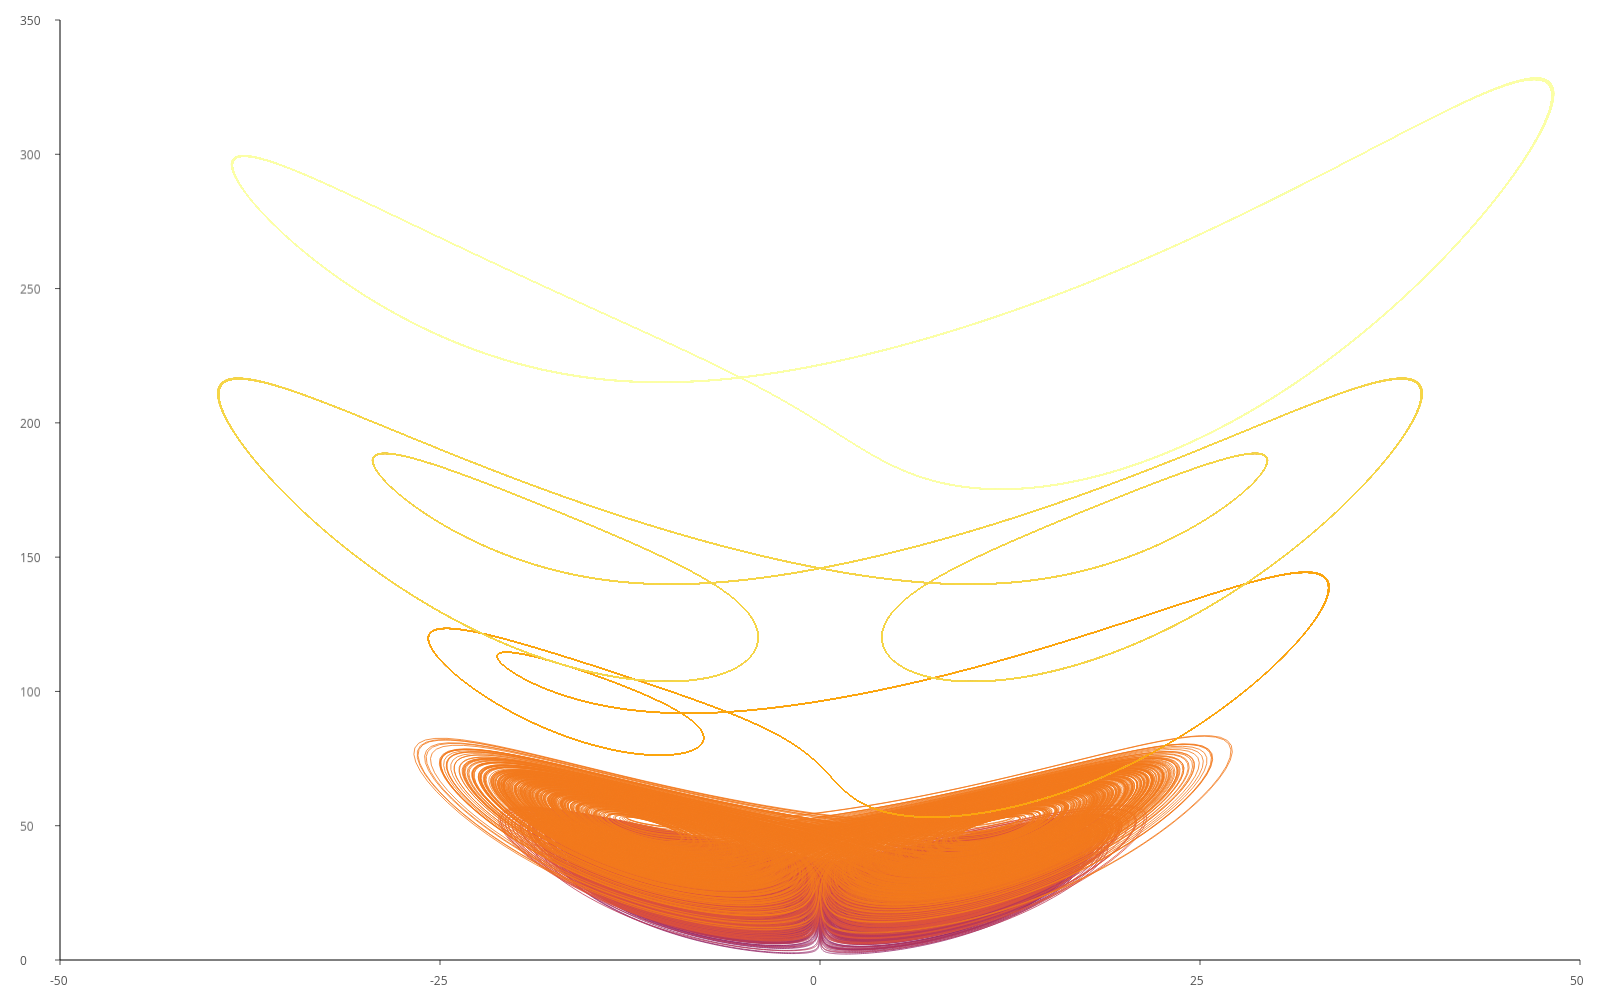
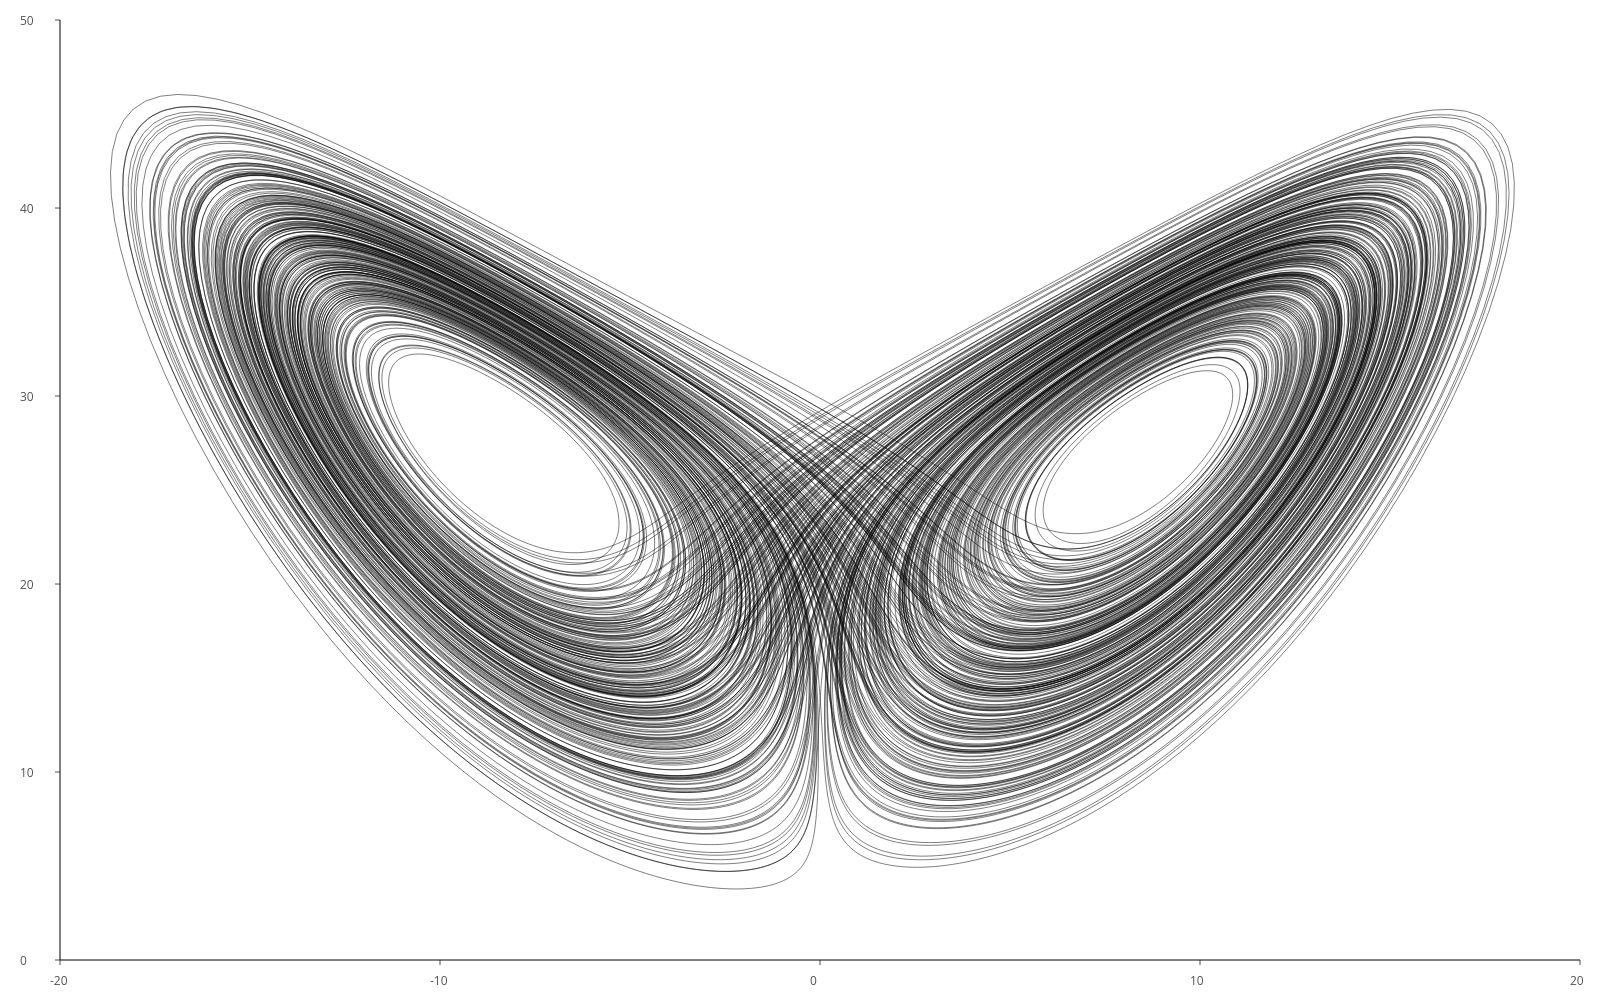
example: update showcases for 0.1.0

diff --git a/examples/showcases/kruskal_szekeres_line.rs b/examples/showcases/kruskal_szekeres_line.rs
@@ -1,212 +1,142 @@
-//! Kruskal–Szekeres diagram — starsight 0.1.0 showcase
+//! Kruskal–Szekeres diagram — starsight 0.1.0 showcase (fixed)
+//!
+//! Root cause of the original output: constant_r_curve pushed all four
+//! sign-quadrant sweeps into one Vec, so LineMark connected Region I
+//! points to Region III points with diagonal slashes. Fix: one LineMark
+//! per (su, sv) pair.
 
 use starsight::prelude::*;
 
 const M: f64 = 1.0;
-const CLIP: f64 = 5.0;
+const CLIP: f64 = 4.5;
 
-// ── Core transform ───────────────────────────────────────────────────────────
+// ── Transform ──────────────────────────────────────────────────────────────────
 
 fn kruskal(r: f64, t: f64, su: f64, sv: f64) -> Option<(f64, f64)> {
-    let exp = (r / (4.0 * M)).exp();
+    if (r - 2.0 * M).abs() < 1e-9 { return None; }
+    let exp_r = (r / (4.0 * M)).exp();
     let tau = t / (4.0 * M);
-
-    if r > 2.0 * M {
-        let f = ((r / (2.0 * M)) - 1.0).sqrt() * exp;
-
-        let u = su * f * tau.cosh();
-        let v = sv * f * tau.sinh();
-
-        Some((u, v))
-    } else if r < 2.0 * M {
-        let f = (1.0 - (r / (2.0 * M))).sqrt() * exp;
-
-        let u = su * f * tau.sinh();
-        let v = sv * f * tau.cosh();
-
+    let (u, v) = if r > 2.0 * M {
+        let f = ((r / (2.0 * M)) - 1.0).sqrt() * exp_r;
+        (su * f * tau.cosh(), sv * f * tau.sinh())
+    } else {
+        let f = (1.0 - r / (2.0 * M)).sqrt() * exp_r;
+        (su * f * tau.sinh(), sv * f * tau.cosh())
+    };
+    if u.is_finite() && v.is_finite() && u.abs() <= CLIP && v.abs() <= CLIP {
         Some((u, v))
     } else {
         None
     }
 }
 
-// ── Helpers ───────────────────────────────────────────────────────────────────
+// ── Curve builders ─────────────────────────────────────────────────────────────
 
-fn clip(u: f64, v: f64) -> bool {
-    u.is_finite() && v.is_finite() && u.abs() < CLIP && v.abs() < CLIP
-}
-
-fn signs() -> [(f64, f64); 4] {
-    [
-        ( 1.0,  1.0),
-        (-1.0,  1.0),
-        ( 1.0, -1.0),
-        (-1.0, -1.0),
-    ]
-}
-
-// ── Constant r curves ─────────────────────────────────────────────────────────
-
-fn constant_r_curve(r: f64, steps: usize) -> (Vec<f64>, Vec<f64>) {
-    let mut x = Vec::new();
-    let mut y = Vec::new();
-
-    for i in 0..steps {
+/// One continuous arc: fixed r, sweep t, single (su, sv) quadrant.
+/// NaN is inserted only at clip-boundary exits so LineMark draws a gap
+/// instead of a line back across the diagram.
+fn r_arc(r: f64, su: f64, sv: f64, steps: usize) -> (Vec<f64>, Vec<f64>) {
+    let mut xs = Vec::new();
+    let mut ys = Vec::new();
+    for i in 0..=steps {
         let t = -20.0 + 40.0 * (i as f64) / (steps as f64);
-
-        for (su, sv) in signs() {
-            if let Some((u, v)) = kruskal(r, t, su, sv) {
-                if clip(u, v) {
-                    x.push(u);
-                    y.push(v);
-                }
-            }
+        match kruskal(r, t, su, sv) {
+            Some((u, v)) => { xs.push(u); ys.push(v); }
+            None if !xs.is_empty() => { xs.push(f64::NAN); ys.push(f64::NAN); }
+            None => {}
         }
     }
-
-    (x, y)
+    (xs, ys)
 }
 
-// ── Constant t curves ─────────────────────────────────────────────────────────
-
-fn constant_t_curve(t: f64, steps: usize) -> (Vec<f64>, Vec<f64>) {
-    let mut x = Vec::new();
-    let mut y = Vec::new();
-
-    for i in 0..steps {
-        let r = 0.01 + (8.0 - 0.01) * (i as f64) / (steps as f64);
-
-        if (r - 2.0 * M).abs() < 1e-6 {
-            continue;
-        }
-
-        for (su, sv) in signs() {
-            if let Some((u, v)) = kruskal(r, t, su, sv) {
-                if clip(u, v) {
-                    x.push(u);
-                    y.push(v);
-                }
-            }
+/// One constant-t ray in the exterior (r > 2M only), single su sign.
+/// Constant-Schwarzschild-t has no meaning inside the horizon; omitting
+/// those points avoids the confused interior fan in the original.
+fn t_arc(t: f64, su: f64, steps: usize) -> (Vec<f64>, Vec<f64>) {
+    let mut xs = Vec::new();
+    let mut ys = Vec::new();
+    for i in 0..=steps {
+        // sweep from just above the horizon outward
+        let r = 2.0 * M + 0.005 + 18.0 * (i as f64) / (steps as f64);
+        // sv=1.0: for r > 2M with su fixed, sv is redundant (sinh covers ±)
+        match kruskal(r, t, su, 1.0) {
+            Some((u, v)) => { xs.push(u); ys.push(v); }
+            None if !xs.is_empty() => { xs.push(f64::NAN); ys.push(f64::NAN); }
+            None => {}
         }
     }
-
-    (x, y)
+    (xs, ys)
 }
 
-// ── Event horizon (r = 2M) ────────────────────────────────────────────────────
-
-fn horizon(steps: usize) -> (Vec<f64>, Vec<f64>) {
-    let mut x = Vec::new();
-    let mut y = Vec::new();
-
-    for i in 0..steps {
-        let t = -20.0 + 40.0 * (i as f64) / (steps as f64);
-        let v = t / (4.0 * M);
-
-        let pts = [
-            ( v,  v),
-            (-v,  v),
-            ( v, -v),
-            (-v, -v),
-        ];
-
-        for (u, vv) in pts {
-            if clip(u, vv) {
-                x.push(u);
-                y.push(vv);
-            }
-        }
-    }
-
-    (x, y)
-}
-
-// ── Singularity (r = 0) ───────────────────────────────────────────────────────
-
-fn singularity(steps: usize) -> (Vec<f64>, Vec<f64>) {
-    let mut x = Vec::new();
-    let mut y = Vec::new();
-
-    for i in 0..steps {
-        let s = -3.0 + 6.0 * (i as f64) / (steps as f64);
-
-        let u = s.sinh();
-        let v = s.cosh();
-
-        let pts = [
-            ( u,  v),
-            (-u,  v),
-            ( u, -v),
-            (-u, -v),
-        ];
-
-        for (uu, vv) in pts {
-            if clip(uu, vv) {
-                x.push(uu);
-                y.push(vv);
-            }
-        }
-    }
-
-    (x, y)
-}
-
-// ── Main ──────────────────────────────────────────────────────────────────────
+// ── Main ───────────────────────────────────────────────────────────────────────
 
 fn main() -> Result<()> {
-    let mut fig = Figure::new(1600, 1000);
-
+    let mut fig = Figure::new(1200, 1200);
     fig = fig
-        .title("Kruskal–Szekeres diagram")
-        .x_label("u")
-        .y_label("v");
+        .title("Kruskal–Szekeres Diagram  (M = 1)")
+        .x_label("u  (spacelike Kruskal)")
+        .y_label("v  (timelike Kruskal)");
 
-    let r_values = [0.5, 1.0, 1.5, 1.9, 2.5, 3.0, 5.0, 10.0];
+    // ── Constant-r arcs (blue) ─────────────────────────────────────────────────
+    // r > 2M → left/right hyperbolas in Regions I (su=+1) and III (su=−1)
+    // r < 2M → top/bottom hyperbolas in Regions II (sv=+1) and IV (sv=−1)
+    let r_exterior = [2.5, 3.0, 4.0, 5.0, 7.0, 10.0];
+    let r_interior = [0.25, 0.5, 1.0, 1.5, 1.9];
 
-    for &r in &r_values {
-        let (x, y) = constant_r_curve(r, 500);
-
-        fig = fig.add(LineMark {
-            x,
-            y,
-            color: Color::BLUE,
-            width: 0.8,
-        });
+    for &r in &r_exterior {
+        for su in [1.0_f64, -1.0] {
+            let (xs, ys) = r_arc(r, su, 1.0, 600);
+            if xs.iter().any(|x| x.is_finite()) {
+                fig = fig.add(LineMark { x: xs, y: ys, color: Color::BLUE, width: 0.9 });
+            }
+        }
+    }
+    for &r in &r_interior {
+        for sv in [1.0_f64, -1.0] {
+            let (xs, ys) = r_arc(r, 1.0, sv, 600);
+            if xs.iter().any(|x| x.is_finite()) {
+                fig = fig.add(LineMark { x: xs, y: ys, color: Color::BLUE, width: 0.9 });
+            }
+        }
     }
 
-    let t_values = [-3.0, -2.0, -1.0, 0.0, 1.0, 2.0, 3.0];
-
-    for &t in &t_values {
-        let (x, y) = constant_t_curve(t, 500);
-
-        fig = fig.add(LineMark {
-            x,
-            y,
-            color: Color::RED,
-            width: 0.8,
-        });
+    // ── Constant-t rays (red, exterior Regions I and III only) ────────────────
+    let t_vals = [-4.0, -3.0, -2.0, -1.0, 0.0, 1.0, 2.0, 3.0, 4.0];
+    for &t in &t_vals {
+        for su in [1.0_f64, -1.0] {
+            let (xs, ys) = t_arc(t, su, 500);
+            if xs.iter().any(|x| x.is_finite()) {
+                fig = fig.add(LineMark { x: xs, y: ys, color: Color::RED, width: 0.8 });
+            }
+        }
     }
 
-    let (x_h, y_h) = horizon(500);
+    // ── Event horizon: u = +v and u = −v — two separate LineMark objects ───────
+    // Original bug: all four diagonal half-lines were concatenated into one Vec.
+    let n = 300usize;
+    let ss: Vec<f64> = (0..=n)
+        .map(|i| -CLIP + 2.0 * CLIP * (i as f64) / (n as f64))
+        .collect();
+    let neg: Vec<f64> = ss.iter().map(|&s| -s).collect();
+    // u = v
+    fig = fig.add(LineMark { x: ss.clone(), y: ss.clone(), color: Color::BLACK, width: 2.5 });
+    // u = -v
+    fig = fig.add(LineMark { x: neg, y: ss.clone(), color: Color::BLACK, width: 2.5 });
 
-    fig = fig.add(LineMark {
-        x: x_h,
-        y: y_h,
-        color: Color::BLACK,
-        width: 2.5,
-    });
+    // ── Singularity r = 0: v² − u² = 1 (future and past, separate) ───────────
+    // Parametrize by u; clip where |v| > CLIP (occurs near |u| ≈ sqrt(CLIP²−1)).
+    let u_max_sing = (CLIP * CLIP - 1.0).sqrt(); // ≈ 4.39 for CLIP=4.5
+    let m = 400usize;
+    let us: Vec<f64> = (0..=m)
+        .map(|i| -u_max_sing + 2.0 * u_max_sing * (i as f64) / (m as f64))
+        .collect();
+    let vs_fut: Vec<f64> = us.iter().map(|&u| (1.0 + u * u).sqrt()).collect();
+    let vs_past: Vec<f64> = us.iter().map(|&u| -(1.0 + u * u).sqrt()).collect();
 
-    let (x_s, y_s) = singularity(500);
+    fig = fig.add(LineMark { x: us.clone(), y: vs_fut,  color: Color::BLACK, width: 3.5 });
+    fig = fig.add(LineMark { x: us.clone(), y: vs_past, color: Color::BLACK, width: 3.5 });
 
-    fig = fig.add(LineMark {
-        x: x_s,
-        y: y_s,
-        color: Color::BLACK,
-        width: 3.5,
-    });
-
-    fig.save("examples/showcases/kruskal.png")?;
-    println!("saved kruskal.png");
-
+    fig.save("examples/showcases/kruskal_szekeres_line.png")?;
+    println!("Saved kruskal_szekeres_line.png");
     Ok(())
 }

diff --git a/examples/showcases/lorenz_line.rs b/examples/showcases/lorenz_line.rs
@@ -67,7 +67,9 @@ fn integrate(rho: f64, ic_jitter: f64) -> (Vec<f64>, Vec<f64>) {
 // ── main ─────────────────────────────────────────────────────────────────────────────────────────
 
 fn main() -> Result<()> {
-    let rho_values: &[f64] = &[13.0, 15.0, 18.0, 21.0, 24.06, 28.0, 35.0, 50.0, 100.0, 160.0, 250.0]; // set to 28. to get the classic
+    // let rho_values: &[f64] = &[13.0, 15.0, 18.0, 21.0, 24.06, 28.0, 35.0, 50.0, 100.0, 160.0, 250.0];
+    // series above if you want that instead
+    let rho_values: &[f64] = &[28.];
     let n = rho_values.len() as f64;
 
     let mut fig = Figure::new(1600, 1000);
@@ -81,13 +83,14 @@ fn main() -> Result<()> {
 
         // map trajectory index to [0, 1] for inferno colormap
         let t = i as f64 / (n - 1.0);
+        // only valid for series
         let c: prismatica::Color = prismatica::matplotlib::INFERNO.eval(t as f32);
 
         fig = fig.add(LineMark {
             x: x_data,
             y: z_data,
             color: Color::from(c),
-            width: 0.8,
+            width: 0.5,
         });
     }
 
